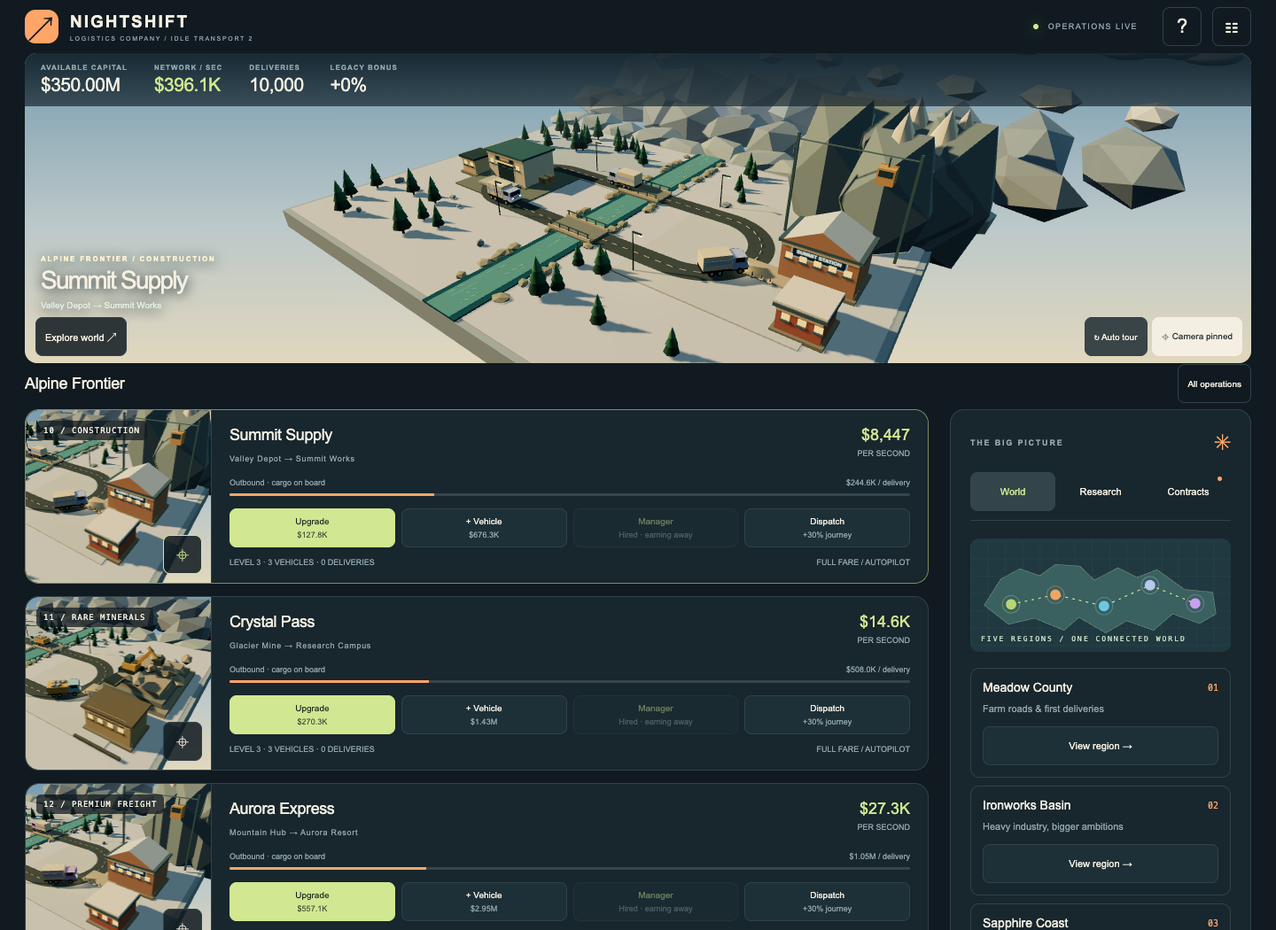
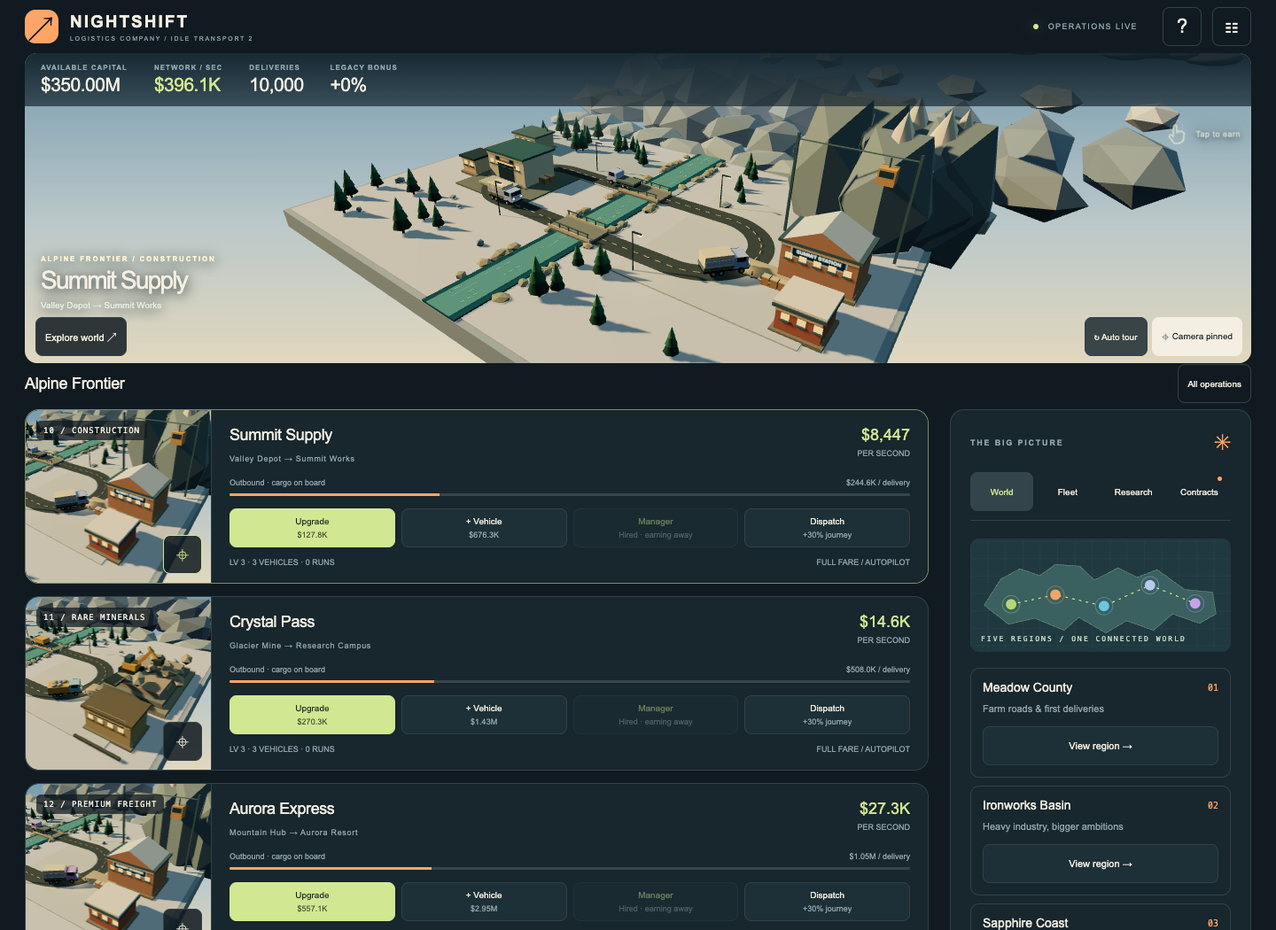
Replace earn button with scene tapping and expand fleet progression

diff --git a/gms/3d/idle-transport2/index.html b/gms/3d/idle-transport2/index.html
@@ -4,23 +4,23 @@
 <meta charset="utf-8"><meta name="viewport" content="width=device-width,initial-scale=1,viewport-fit=cover"><meta name="theme-color" content="#101a20">
 <title>Idle Transport 2 — Nightshift Logistics</title>
 <link rel="icon" href="favicon.svg" type="image/svg+xml">
-<link rel="stylesheet" href="style.css">
+<link rel="stylesheet" href="style.css?v=20261003-tap2">
 <script type="importmap">{"imports":{"three":"../../lib/three/0.160.0/three.module.js"}}</script>
 </head>
 <body>
 <div class="app-shell">
 <div class="cockpit"><header class="masthead"><a class="brand" href="../../../" aria-label="Y-R-U home"><span class="brand-mark">↗</span><span>NIGHTSHIFT<small>LOGISTICS COMPANY / IDLE TRANSPORT 2</small></span></a><div class="header-actions"><span class="live-indicator"><i></i> OPERATIONS LIVE</span><button class="icon-button" id="help-button" aria-label="How to play">?</button><button class="icon-button" id="settings-button" aria-label="Settings and save">☷</button></div></header>
 <section class="hero-panel"><section class="balance-bar" aria-label="Company accounts"><div class="balance"><span class="eyebrow">AVAILABLE CAPITAL</span><strong id="cash">$0</strong></div><div class="account-stat"><span class="eyebrow">NETWORK / SEC</span><strong id="income">$0</strong></div><div class="account-stat"><span class="eyebrow">DELIVERIES</span><strong id="deliveries">0</strong></div><div class="account-stat reputation"><span class="eyebrow">LEGACY BONUS</span><strong id="legacy">+0%</strong></div><span class="company-tag">EST. TODAY<br>BUILT FOR THE LONG HAUL</span></section>
-<button id="work-button" class="primary">Load cargo · Earn $5</button><div id="event-banner" role="status" hidden><div><strong id="event-title"></strong><p id="event-description"></p></div><button id="event-claim" class="primary"></button></div><div id="hero-view" role="img" aria-label="Live 3D view of transport operations"></div><div class="hero-topline"><span class="scene-pill"><i></i> LIVE DISPATCH FEED</span><span class="scene-coordinates" id="scene-number">SITE / 01</span></div><div class="hero-caption"><span class="eyebrow" id="hero-region">THE FIRST MILE</span><h1 id="hero-title">A little fleet.<br>A bigger horizon.</h1><p id="hero-detail">Every journey starts somewhere.</p></div><div class="camera-controls"><button id="tour-button" class="camera-button active" title="Cycle through working routes">↻ <span>Auto tour</span></button><button id="hero-pin" class="camera-button" title="Keep the main camera on this route">⌖ <span>Pin camera</span></button></div><div class="hero-bottom"><span>SHARED WORLD / TWO PERSPECTIVES</span><span id="journey-caption">Watching your network grow</span></div>
+<div id="tap-hint" class="tap-hint" aria-hidden="true"><span class="tap-gesture"><svg viewBox="0 0 32 32" fill="none"><path d="M12 18V8a2 2 0 0 1 4 0v7l2-2 2 1 2-1 3 3-1 9-5 3h-6l-6-8a2 2 0 0 1 3-2l2 2" stroke="currentColor" stroke-width="1.7" stroke-linecap="round" stroke-linejoin="round"/></svg></span><span>Tap to earn</span></div><div id="event-banner" role="status" hidden><div><strong id="event-title"></strong><p id="event-description"></p></div><button id="event-claim" class="primary"></button></div><div id="hero-view" role="img" aria-label="Live 3D view of transport operations"></div><div class="hero-topline"><span class="scene-pill"><i></i> LIVE DISPATCH FEED</span><span class="scene-coordinates" id="scene-number">SITE / 01</span></div><div class="hero-caption"><span class="eyebrow" id="hero-region">THE FIRST MILE</span><h1 id="hero-title">A little fleet.<br>A bigger horizon.</h1><p id="hero-detail">Every journey starts somewhere.</p></div><div class="camera-controls"><button id="tour-button" class="camera-button active" title="Cycle through working routes">↻ <span>Auto tour</span></button><button id="hero-pin" class="camera-button" title="Keep the main camera on this route">⌖ <span>Pin camera</span></button></div><div class="hero-bottom"><span>SHARED WORLD / TWO PERSPECTIVES</span><span id="journey-caption">Watching your network grow</span></div>
 <button class="world-shortcut" id="world-shortcut">Explore world ↗</button></section>
 <section class="operations-heading"><h2 id="region-title">Meadow County</h2><button class="secondary" id="network-filter" aria-pressed="false">All operations</button></section>
 </div><main id="operations-scroll">
-<div class="workspace"><section class="route-list" id="route-list" aria-label="Transport routes"></section><aside class="dispatch-board"><div class="board-heading"><span class="eyebrow">THE BIG PICTURE</span><span class="board-symbol">✳</span></div><nav class="tabs" aria-label="Company planning"><button data-tab="world" class="selected">World</button><button data-tab="research">Research</button><button data-tab="contracts">Contracts<span id="contract-dot"></span></button></nav><div id="planning-panel"></div><div class="legacy-card"><span class="eyebrow">MAKE YOUR MARK</span><h3>A new beginning.<br>A lasting advantage.</h3><p id="prestige-copy">Build your network to earn a permanent company bonus.</p><button id="prestige-button" class="secondary">Start a new company ↗</button></div></aside></div>
+<div class="workspace"><section class="route-list" id="route-list" aria-label="Transport routes"></section><aside class="dispatch-board"><div class="board-heading"><span class="eyebrow">THE BIG PICTURE</span><span class="board-symbol">✳</span></div><nav class="tabs" aria-label="Company planning"><button data-tab="world" class="selected">World</button><button data-tab="fleet">Fleet</button><button data-tab="research">Research</button><button data-tab="contracts">Contracts<span id="contract-dot"></span></button></nav><div id="planning-panel"></div><div class="legacy-card"><span class="eyebrow">MAKE YOUR MARK</span><h3>A new beginning.<br>A lasting advantage.</h3><p id="prestige-copy">Build your network to earn a permanent company bonus.</p><button id="prestige-button" class="secondary">Start a new company ↗</button></div></aside></div>
 <footer><span>NIGHTSHIFT / KEEP THE WORLD MOVING</span><span id="save-status">Progress saved on this device</span></footer>
 </main></div>
 <div id="toast-stack" role="status" aria-live="polite"></div>
 <dialog id="settings-dialog"><div class="dialog-heading"><div><span class="eyebrow">COMPANY OFFICE</span><h2>Settings & saves</h2></div><button class="icon-button close-dialog" aria-label="Close">×</button></div><label class="setting-row">Scene quality<select id="quality-select"><option value="high">High · full atmosphere</option><option value="medium">Medium · balanced</option><option value="low">Low · battery friendly</option></select></label><label class="setting-row">Sound effects<button id="sound-button" class="secondary">Off</button></label><div class="dialog-section"><h3>Take your company with you</h3><p>Your progress saves automatically on this device. Export a backup before moving to another browser.</p><div class="button-pair"><button id="export-button" class="primary">Export save ↓</button><button id="import-button" class="secondary">Import save ↑</button><input id="import-file" type="file" accept=".json,application/json" hidden></div></div><p class="fine-print" id="save-detail"></p></dialog>
-<dialog id="guide-dialog"><div class="dialog-heading"><div><span class="eyebrow">WELCOME TO THE DISPATCH DESK</span><h2>Keep it moving.</h2></div><button class="icon-button close-dialog" aria-label="Close">×</button></div><div class="guide-step"><b>01</b><div><h3>Earn your first company</h3><p>Load cargo to earn $60, then buy Golden Harvest. Owned routes start travelling continuously. Upgrade fares and expand the fleet to grow your earnings. Dispatch gives a journey a hands-on boost.</p></div></div><div class="guide-step"><b>02</b><div><h3>Hire a manager</h3><p>Managers collect the full fare and keep earning while you’re away. Without one, routes still collect a smaller fare.</p></div></div><div class="guide-step"><b>03</b><div><h3>See every side of the journey</h3><p>The main camera and each route show the same vehicles in the same journey. Use a route’s camera button to pin its cinematic view, or let Auto tour explore.</p></div></div><div class="guide-step"><b>04</b><div><h3>Go beyond the first mile</h3><p>Open new regions, research better logistics and complete contracts. Eventually start a fresh company with a permanent legacy bonus.</p></div></div><button class="primary close-dialog">Back to the road ↗</button></dialog>
+<dialog id="guide-dialog"><div class="dialog-heading"><div><span class="eyebrow">WELCOME TO THE DISPATCH DESK</span><h2>Keep it moving.</h2></div><button class="icon-button close-dialog" aria-label="Close">×</button></div><div class="guide-step"><b>01</b><div><h3>Earn your first company</h3><p>Tap anywhere on the main scene to earn $60, then buy Golden Harvest. Owned routes start travelling continuously. Upgrade fares and expand the fleet to grow your earnings. Dispatch gives a journey a hands-on boost.</p></div></div><div class="guide-step"><b>02</b><div><h3>Hire a manager</h3><p>Managers collect the full fare and keep earning while you’re away. Without one, routes still collect a smaller fare.</p></div></div><div class="guide-step"><b>03</b><div><h3>See every side of the journey</h3><p>The main camera and each route show the same vehicles in the same journey. Use a route’s camera button to pin its cinematic view, or let Auto tour explore.</p></div></div><div class="guide-step"><b>04</b><div><h3>Go beyond the first mile</h3><p>Choose Express or Heavy haul in Fleet planning, earn route mastery, open new regions, research better logistics and complete contracts. Eventually start a fresh company with a permanent legacy bonus.</p></div></div><button class="primary close-dialog">Back to the road ↗</button></dialog>
 <dialog id="prestige-dialog"><div class="dialog-heading"><div><span class="eyebrow">YOUR NEXT CHAPTER</span><h2>Build on your legacy</h2></div><button class="icon-button close-dialog" aria-label="Close">×</button></div><p id="prestige-confirm-copy"></p><p>Cash, routes, regions and research restart. Your legacy bonus remains, helping the next company grow faster.</p><div class="button-pair"><button class="secondary close-dialog">Keep this company</button><button class="primary" id="confirm-prestige">Start fresh ↗</button></div></dialog>
-<script type="module" src="js/app.mjs"></script>
+<script type="module" src="js/app.mjs?v=20261003-tap2"></script>
 </body></html>

diff --git a/gms/3d/idle-transport2/style.css b/gms/3d/idle-transport2/style.css
@@ -20,3 +20,9 @@ html,body{height:100%;overflow:hidden}body{overscroll-behavior:none}.app-shell{h
 #work-button{position:absolute;z-index:3;top:70px;right:16px;background:var(--orange);color:var(--bg);font-size:12px;border:0;box-shadow:0 4px 20px #091b2244}#work-button[hidden],#event-banner[hidden]{display:none}#event-banner{position:absolute;z-index:4;top:65px;left:14px;right:14px;display:flex;align-items:center;gap:10px;padding:10px 12px;border-radius:9px;background:#f2e8cff5;color:#18262d;box-shadow:0 4px 20px #091b2244}#event-banner strong{font-size:12px}#event-banner p{font-size:10px;color:#40555c;margin:4px 0 0}#event-claim{margin-left:auto;white-space:nowrap;font-size:11px;min-height:44px}#event-banner>div{min-width:0}.cockpit-compact #event-banner{top:48px;padding:4px 8px}.cockpit-compact #event-description{display:none}
 @media(max-width:580px){#work-button{top:58px;right:10px;font-size:11px;padding:8px 10px}#event-banner{top:52px;left:8px;right:8px;padding:7px 9px}#event-banner strong{font-size:10px}#event-banner p{font-size:8px}#event-claim{font-size:10px;padding:6px 8px}.cockpit-compact:has(#event-banner:not([hidden])) .hero-caption{display:none}.cockpit-compact #event-banner{top:45px}}
 .cockpit-compact:has(#event-banner:not([hidden])) .camera-controls,.cockpit-compact:has(#event-banner:not([hidden])) .world-shortcut{visibility:hidden}.cockpit-compact #event-banner{top:auto;bottom:8px}
+/* Touch the world itself: understated guidance, bright but brief feedback. */
+.hero-panel{touch-action:pan-y;cursor:pointer}.hero-panel:focus-visible{outline:2px solid var(--orange);outline-offset:3px}.tap-hint{position:absolute;z-index:3;left:56%;top:50%;transform:translate(-50%,-50%);display:flex;align-items:center;gap:6px;pointer-events:none;color:#fff5da;font-size:11px;letter-spacing:.5px;text-shadow:0 2px 6px #071c29,0 0 20px #102029;white-space:nowrap;animation:hint-float 3s ease-in-out infinite}.tap-gesture{position:relative;display:block;width:30px;height:34px}.tap-gesture svg{width:30px;height:32px}.tap-gesture::before{content:"";position:absolute;left:6px;top:0;width:16px;height:16px;border:1px solid #fff2c7;border-radius:50%;animation:hint-ring 2s ease-out infinite}.tap-hint.operating{opacity:.65;left:auto;right:12px;top:78px;transform:none;font-size:9px}.tap-hint.operating.tapped{opacity:0;animation:none}.tap-hint[data-combo]::after{content:attr(data-combo);position:absolute;top:34px;right:0;font-size:10px;color:var(--lime)}.tap-hint.operating.tapped[data-combo]{opacity:1}.tap-effects{position:absolute;inset:0;z-index:4;pointer-events:none;overflow:hidden}.tap-money{position:absolute;color:#fff2b5;text-shadow:0 2px 8px #132c2c;font-size:20px;font-weight:700;white-space:nowrap;animation:tap-money 950ms ease-out forwards}.tap-ripple{position:absolute;width:22px;height:22px;border:2px solid #ffe3a6;border-radius:50%;box-shadow:0 0 14px #ffdf8755;animation:tap-ripple 550ms ease-out forwards}.tap-lit{animation:scene-tap 300ms ease-out}.fleet-plan{padding:16px 0;border-bottom:1px solid var(--line)}.fleet-plan-heading{display:flex;align-items:center;justify-content:space-between;gap:10px;margin-bottom:12px}.fleet-plan h3{margin:0;font-size:14px;font-weight:500}.fleet-plan-heading>span{color:var(--lime);font-size:9px;letter-spacing:1px}.policy-options{display:grid;grid-template-columns:repeat(3,minmax(0,1fr));gap:5px}.policy-options button{font-size:10px;min-width:0;padding:8px 3px;min-height:54px}.policy-options small{display:block;margin-top:5px;font-size:7px;line-height:1.4;color:var(--muted)}.policy-options button[aria-pressed=true]{border-color:var(--lime);background:#324638;color:var(--lime)}.policy-note{font-size:10px!important;margin:10px 0 14px!important}.mastery-heading{display:flex;justify-content:space-between;gap:10px;font-size:9px;color:var(--muted);margin-bottom:7px}.tabs>button{min-width:0;font-size:10px;padding:9px 4px}
+@keyframes hint-float{0%,100%{translate:0 0}50%{translate:0 -4px}}@keyframes hint-ring{0%{transform:scale(.7);opacity:0}25%{opacity:.8}100%{transform:scale(2.3);opacity:0}}@keyframes tap-money{0%{transform:translate(-50%,-5px) scale(.85);opacity:0}15%{opacity:1;transform:translate(-50%,-12px) scale(1.06)}100%{transform:translate(-50%,-62px) scale(.98);opacity:0}}@keyframes tap-ripple{from{transform:translate(-50%,-50%) scale(.5);opacity:.85}to{transform:translate(-50%,-50%) scale(3.7);opacity:0}}@keyframes scene-tap{from{box-shadow:inset 0 0 25px #ffed9d44}to{box-shadow:inset 0 0 0 transparent}}
+@media(max-width:580px){.tap-hint{font-size:10px;left:57%;top:48%}.tap-hint.operating{top:55px;right:10px;font-size:8px}.cockpit-compact .tap-hint.operating{display:none}.tap-money{font-size:17px}}
+@media(prefers-reduced-motion:reduce){.tap-money,.tap-ripple{animation-duration:1ms!important}.tap-hint,.tap-gesture::before{animation:none}}
+.hero-panel{-webkit-tap-highlight-color:transparent;user-select:none;-webkit-user-select:none}

diff --git a/gms/3d/idle-transport2/docs/ECONOMY.md b/gms/3d/idle-transport2/docs/ECONOMY.md
@@ -33,3 +33,13 @@ Resume: economy complete; root/interface can integrate directly. Do not overwrit
 ## Random opportunities and latest checkpoint
 
 COMPLETE after prepublication steering. State event is null or {id,kind,title,description,reward,remaining}; action claimEvent pays once then clears it. First opportunity appears after 45 simulated seconds of company ownership, later ones every random 80–140 seconds. Rush, backhaul and supply offers have 25-second claim windows; bonuses scale from minimum $80 with network income. No negative costs, no forced choice, no events generated from offline advance. Research, contracts and prestige still work; prestige restarts at zero with no owned routes. Event fields are sanitized on import. Tests cover work bootstrap, no initial idle income, existing-save closed/purchased route preservation, deterministic injected opportunities, expiry, repeated claim rejection and offline exclusion. Updated automated no-work-after-bootstrap benchmark: region times 4.0 / 8.7 / 19.1 / 58.0 minutes; every route 87.8. This benchmark ignores optional event claims and manual dispatch.
+
+## Hero tapping, operating policy and route mastery checkpoint
+
+COMPLETE. Work action result and work subscriber events include earned,combo,multiplier. Combo activates only after owning the first company; taps within 900 ms ramp from 1× to 2× at 20 taps, capped. Before first purchase every tap is exactly $5 unless loading research has been purchased; twelve initial taps still fund the first route. game.tapInfo() exposes combo,multiplier,remaining (milliseconds), with zero combo after expiry. Combo is transient and resets on import/prestige/reload. Tap research: tap-tools ($1,200), precision-loaders ($120,000, requires tap-tools), each doubles manual earnings.
+
+Export POLICIES defines steady (time 1×, fare 1×), express (time .8×, fare .85×) and heavy (time 1.3×, fare 1.6×). speedFactor is a multiplier on journey duration, not speed. action('policy','grain:express') queues a change until next delivery; choosing current policy cancels a pending change. Current shipment pays its existing fare. Existing saves default to steady with no queue. stats fields policy,policyName,queuedPolicy reflect current/pending choices. Policy durations preserve normalized route progress for both cameras.
+
+Route mastery derives from completed route deliveries, with milestones 10,50,150,500. Bonuses are nonstacked: 10%,20%,30%,50% on fares. stats masteryLevel (0–4),masteryBonus (fraction),nextMastery (delivery target or null),masteryProgress (0–1 over current tier). Live threshold crossings emit mastery exactly once; offline deliveries still earn mastery. Segmented simulation respects payout changes at mastery boundaries and pending policy changes, including long offline windows, so switching policy cannot change the current shipment's fare.
+
+Latest tests pass: queued/current policies, queue cancellation, positive heavy effect, malformed policy rejection, legacy policy migration, mastery transition one-time event, maximum mastery, combo cap/expiry/import reset, research 2×/4× tap scaling, and all prior economy checks. New optimistic no-dispatch/no-event-claim/steady-policy benchmark after 12 bootstrap taps: regions 3.7 / 8.2 / 18.7 / 57.6 minutes, every route 77.6. The faster late pacing reflects earned route mastery.

diff --git a/gms/3d/idle-transport2/docs/SCENES.md b/gms/3d/idle-transport2/docs/SCENES.md
@@ -34,3 +34,15 @@ The previous fixed screen scissor canvas architecture above is superseded. `crea
 Each visible camera renders into the bottom-left viewport of the shared source, then immediately blits its exact pixel crop to that view's presentation canvas before reusing the source for another camera. The WebGL drawing buffer retains the largest required viewport capacity and grows at most once per animation frame; window resize/quality updates reset capacity. It never calls `renderer.setSize` separately for each camera. Presentation buffers resize only when their pixel dimensions/DPR change; invisible cards retain their last image while skipping render work. Hero and row cameras still read the same cached worlds and vehicle transforms/progress. Old region presentation canvases are removed by `setRoutes`; destroy removes all presentation canvases.
 
 Debug APIs preserved, now add `rendererCount: 1`, `presentationCount` and `sourceSize`. DOM canvas count intentionally equals the hero plus current-region rows; these additional canvases have 2D contexts and do not add WebGL renderers. Existing tests asserting one DOM canvas must assert `scenes.debug.rendererCount === 1` instead. Parent should inspect compact hero at desktop 300–360px and mobile 220/170/125px sticky states, fast row scroll and region replacements, then smoke-test public deployment.
+
+## Follow-up: tap rewards and visible growth
+Status: scene expansion implemented; syntax checked. Parent owns game economy/DOM particles and final capture validation.
+
+- New `scenes.celebrateTap(nx=.5, ny=.5)` receives hero-relative normalized coordinates. It raycasts onto the ground and emits eight gold world sparkles from a reusable pool of 24 instanced spheres lasting .85s; repeated taps reuse slots. A brief dispatch lighting pulse reinforces the action. No tap creates meshes, lights, materials or textures.
+- Three prebuilt, initially hidden batched upgrade groups grow dispatch from cargo annex to Fleet Operations and Regional HQ; destination cargo piles grow too. Tiers appear at route level 5/15/30 OR fleet 3/6/12 OR stats masteryLevel 1/2/4 (10/50/500 delivery milestones in current economy). These are visible scene consequences, not additional purchases.
+- Trucks now visually carry timber/aggregate/pods outbound and return with empty racks/beds; cargo lifts briefly near dispatch. Vehicles continue sharing exact economy journey progress across perspectives. Oil tanker hardware stays intact.
+- Fourteen pooled subtle dust puffs trail active fleets. No per-frame geometry creation; new progression details are batched once when the world is created.
+- Tall hero (240px+) smoothly leans toward the working site for six seconds during each 24-second orbit; it returns to wide framing before the twelve-second route switch. Compact hero heights keep the whole network wide. Pinning never changes the shared simulation.
+- Debug snapshot adds `visualTier`, `particles`, `tapUntil`; all DOM-canvas, rendererCount, sourceSize, focus and vehicle diagnostics preserved.
+
+Resume: parent invokes `celebrateTap` after successful tap income, owns DOM feedback and real browser validation. Scenery work is complete; do not reset the presentation canvas architecture.

diff --git a/gms/3d/idle-transport2/docs/STATE.md b/gms/3d/idle-transport2/docs/STATE.md
@@ -18,8 +18,10 @@ The established Python site-root server on port 8888 serves this game. Do not st
 - Shared real delivery progress, animated trucks and machinery, nine procedural site types, shadows, atmospheric sky, river shimmer, bridges and detailed scenery.
 - Twelve-second automatic highlights, camera pins, automatic reveal of the main scene when pinning a row.
 - Five regions and fifteen routes. Regional operations and full-network list modes.
-- Route upgrades, fleets, managers, hands-on dispatch, eight research projects, eleven milestone contracts, permanent prestige bonuses.
-- Fresh companies start closed with $0 and no idle income: twelve cargo-loading taps fund the $60 first company. Existing saves retain purchased companies.
+- Route upgrades, fleets, managers, hands-on dispatch, ten research projects, eleven milestone contracts, permanent prestige bonuses.
+- Scene-wide earning with floating hint/cash, ripples, pooled 3D particles, keyboard access, and gesture/control exclusion. Continued taps build a capped 2x momentum bonus after the first purchase.
+- Fleet policies Steady/Express/Heavy haul queue for the next departure; four delivery mastery levels add permanent fares. Depots visibly expand with level, fleet and mastery, while trucks unload returning cargo and kick up subtle dust.
+- Fresh companies start closed with $0 and no idle income: twelve taps anywhere on the main 3D scene fund the $60 first company. Existing saves retain purchased companies.
 - Random rush/backhaul/supplier opportunities with countdowns, scaling cash rewards, single-claim validation, and no offline spawning.
 - Automatic saves, validated JSON backups/imports, capped manager-only offline and background-tab earnings, quality/sound settings and guide.
 - Mobile layouts and touch controls, project registry entry and assets/screenshots/idle-transport2.jpg.
@@ -53,6 +55,7 @@ node tools/economy-test.mjs
 node tools/browser-test.mjs
 node tools/capture.mjs
 node tools/layout-test.mjs
+node tools/tap-test.mjs
 node tools/economy-pacing.mjs
 ```
 
@@ -61,3 +64,7 @@ Browser scripts require local Chrome/socket access outside the restricted sandbo
 ## Change boundaries
 
 Only gms/3d/idle-transport2/, projects.js, and assets/screenshots/idle-transport2.jpg belong to this task. Unrelated changes already existed in games/, tinpot/, and lib/auth/; preserve them. Release only these files if the user later requests publication; verify deployment completion and the actual public URL.
+
+Scene-wide tapping expansion: economy tests cover legacy save migration, policy timing, mastery transitions and combo limits. tools/tap-test.mjs verifies actual touch positions, swipe/multi-touch/control exclusion, keyboard earning, continued tapping, policy UI and visible depot progression. Tap FX use bounded DOM nodes and a fixed 24-particle world pool.
+
+Release assets use the same v=20261003-tap2 query across HTML stylesheet/app and app/scene economy imports to avoid mixing old cached interfaces with new modules. Keep the shared economy import version identical across modules when changing it.

diff --git a/gms/3d/idle-transport2/README.md b/gms/3d/idle-transport2/README.md
@@ -6,7 +6,7 @@ Open through the site root server: http://localhost:8888/gms/3d/idle-transport2/
 
 No build step or external package installation. Three.js is served from the existing `/gms/lib/three/0.160.0/` library.
 
-Start with no cash or idle income. Load cargo twelve times to earn $60, then buy Golden Harvest to start your first company. Dispatch a shipment for a full-fare boost, invest in route upgrades or another vehicle, then hire a manager for full automatic fares and earnings while away. Contracts reward milestones; research improves the whole network.
+Start with no cash or idle income. Tap anywhere on the main 3D scene twelve times to earn $60, then buy Golden Harvest to start your first company. Taps show floating earnings, a ripple and 3D sparkles; swipes and scene controls never earn accidentally. Dispatch a shipment for a full-fare boost, invest in route upgrades or another vehicle, then hire a manager for full automatic fares and earnings while away. Contracts reward milestones; research improves the whole network.
 
 Expand through Meadow County, Ironworks Basin, Sapphire Coast, Alpine Frontier, and Orbital Gateway. The fifteen routes feature farms, quarries, timber yards, factories, ports, oil infrastructure, mountain supply, air cargo, and orbital freight. Use **All operations** to see the entire working network, or select a region on the world map.
 
@@ -27,6 +27,7 @@ node tools/economy-test.mjs
 node tools/browser-test.mjs
 node tools/capture.mjs
 node tools/layout-test.mjs
+node tools/tap-test.mjs
 ```
 
 Browser verification uses local Google Chrome, Node's built-in WebSocket, and the existing site server at port 8888. It writes review captures and a machine-readable report under `docs/verification/`. Chrome requires local socket/process access outside the restricted sandbox.
@@ -34,3 +35,7 @@ Browser verification uses local Google Chrome, Node's built-in WebSocket, and th
 Regional review captures use an explicitly constructed progressed company to inspect later environments. The desktop and portrait starting captures show a fresh company. Pacing measurements in `docs/ECONOMY.md` use an optimistic automated investment policy, rather than human play.
 
 Random opportunities begin after your first company opens. Rush orders, backhaul loads, and supplier bonuses offer a reward for a limited time. Claim an opportunity before its countdown ends; ignoring it has no penalty. These events do not run while away.
+
+The Fleet planning tab lets you choose balanced Steady journeys, faster Express runs, or slower high-value Heavy haul. A policy change starts after the current delivery. Route mastery at 10, 50, 150, and 500 deliveries adds permanent fare bonuses of 10%, 20%, 30%, and 50%. Depots gain buildings and cargo as levels, fleets, and mastery grow.
+
+Once your first company is open, quick successive taps build momentum up to 2× earnings. Loading research can double manual earnings twice more. Existing saves retain progress and default to Steady policies.

diff --git a/gms/3d/idle-transport2/docs/UI.md b/gms/3d/idle-transport2/docs/UI.md
@@ -32,3 +32,6 @@ Route camera pinning reveals the main hero with a smooth scroll; reduced-motion 
 
 ## Compact cockpit revision
 Header, scene with overlaid accounts, and region/filter heading remain stationary outside the operations scroller. Explore world sits bottom-left of the main scene. Portrait cards use a 100px scene beside route info and full-width 44px controls below. Scrolling first folds the main view; three active cards enable a smaller 118px view. Native DOM presentation canvases keep scenes attached during scrolling. Layout suite verifies two full rows at top and three after folding at320x740,390x844,430x844.
+
+## Scene-wide earning and Fleet planning
+Earn by tapping the main scene; the anchored work button has been removed. Floating Tap to earn guidance, ring/rising cash and bounded world sparkles communicate input. Swipes, multi-touch, camera/world/event buttons never earn. Keyboard Enter/Space also works. Fleet tab provides queued policies and mastery progress without enlarging portrait route rows. Browser native tap highlight disabled.
